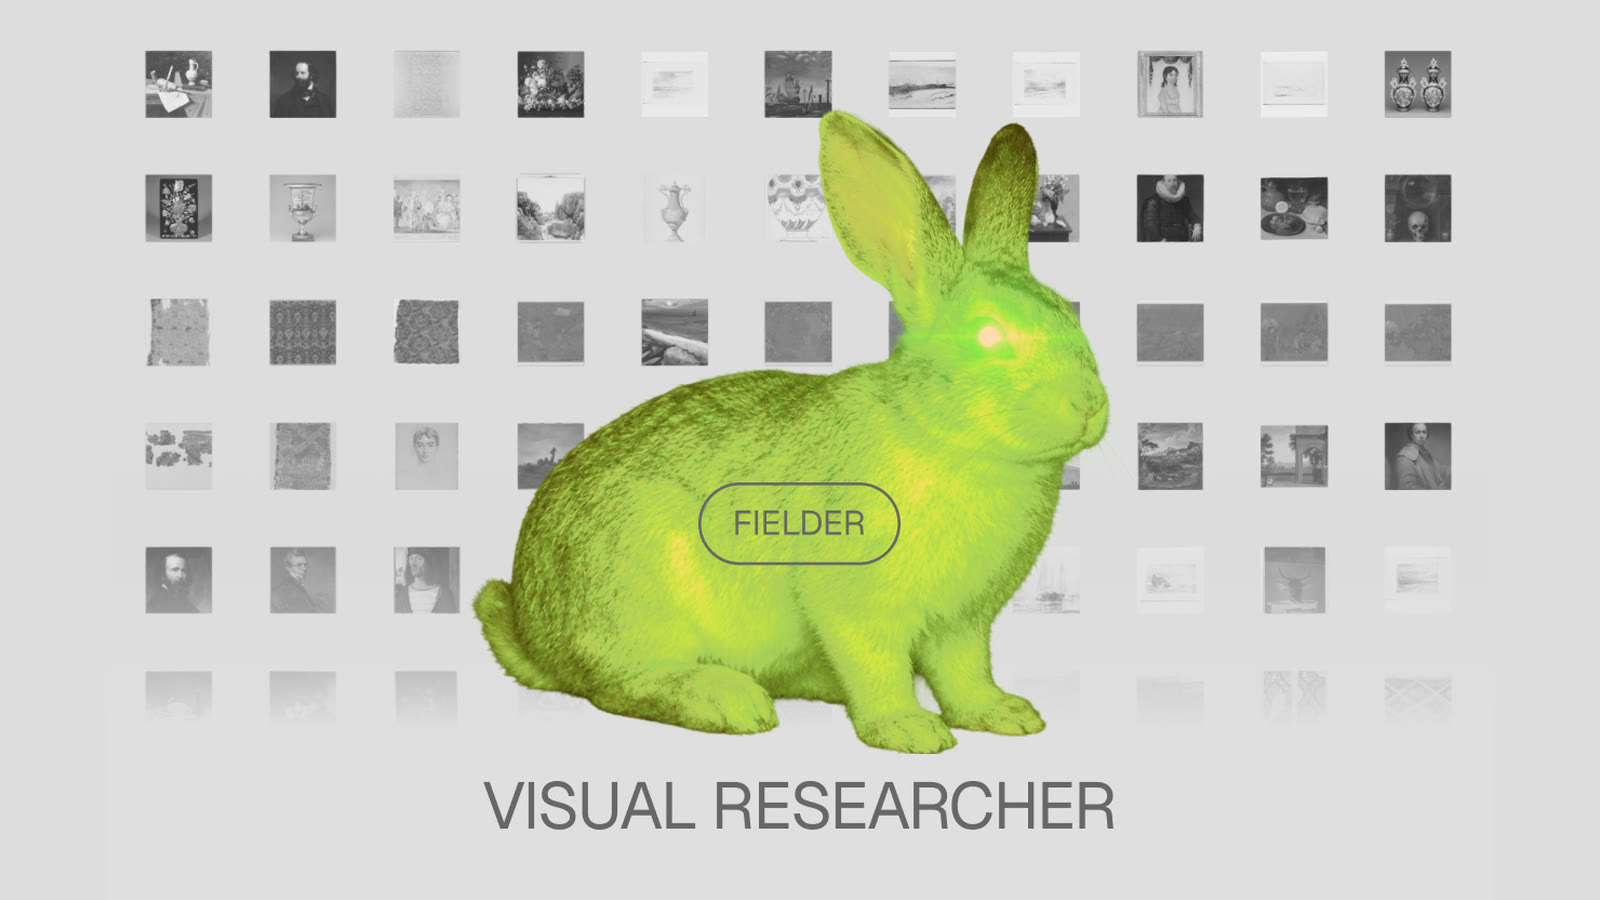
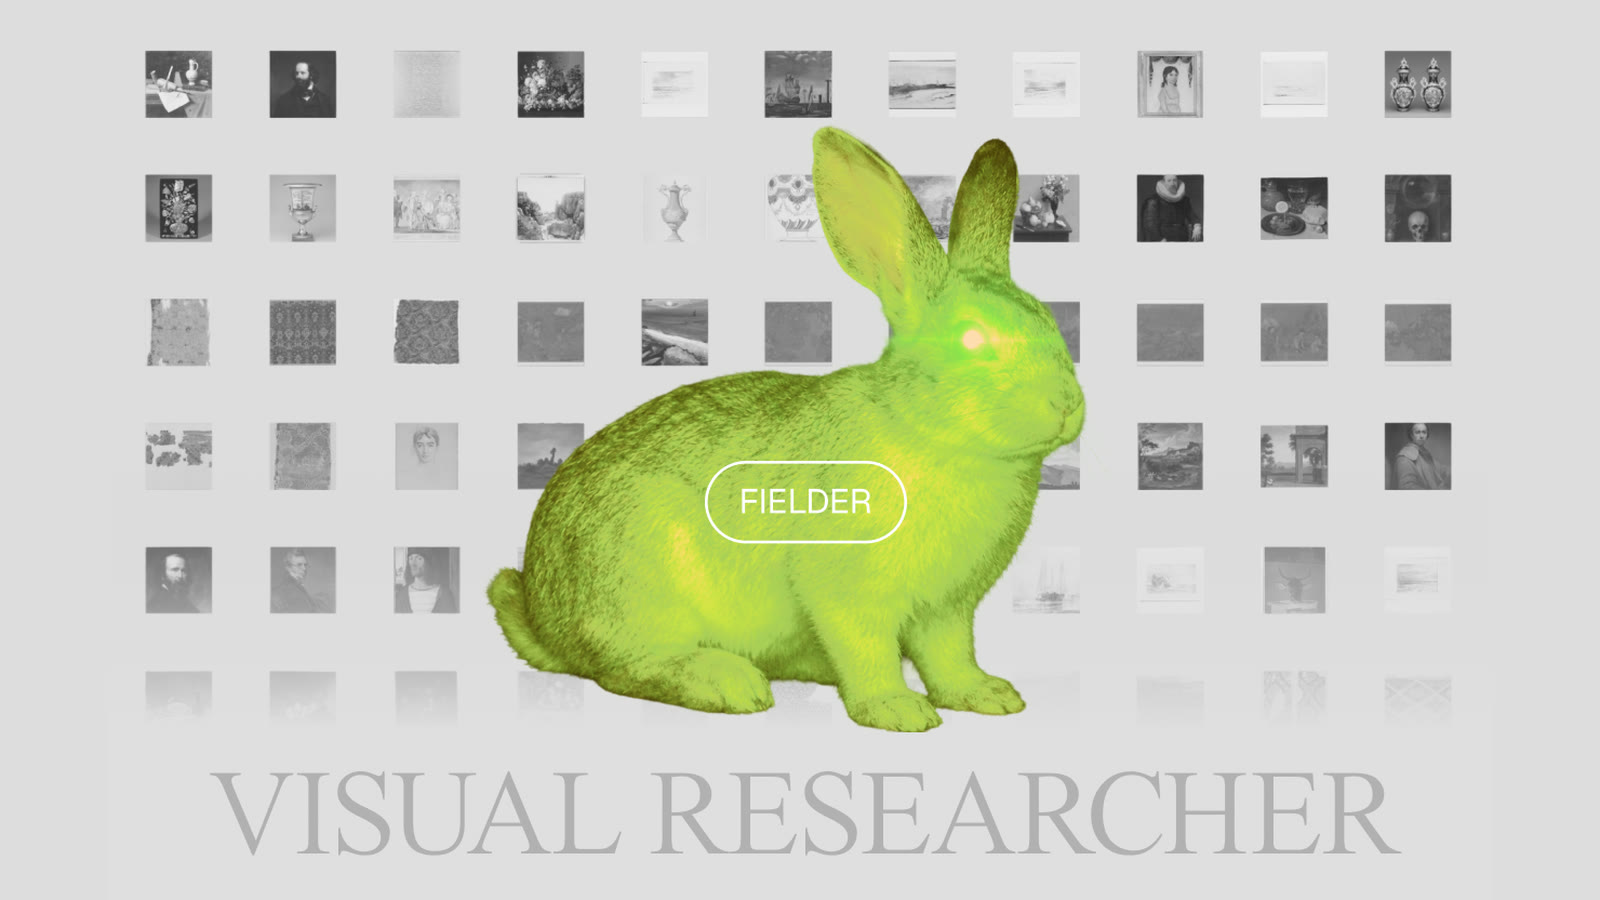
Fielder card: updated Visual Researcher still

Changed region(s): [[0.125, 0.1244, 0.875, 0.9644]]

diff --git a/index.html b/index.html
@@ -1031,7 +1031,7 @@ document.documentElement.className+=' js';
         <div class="cols"><div class="c0"><span class="nmw"><b>Vamos</b><span class="cl" aria-hidden="true" style="--m:url(/assets/logos/vamos.svg);--r:4.298"></span></span><span class="yr">2026</span></div><div class="c1"><span class="t">Collaborative Trip Planning on One Map</span><br><span class="m">Design Director</span></div></div>
       </a>
       <a class="proj" data-slug="fielder" data-cat="interface" href="https://fielder.pages.dev/">
-        <div class="media" aria-hidden="true" style="--poster:url(/stage/fielder/cover.jpg)"><video class="cover fill" src="/stage/fielder/cover.mp4" muted loop playsinline preload="none" poster="/stage/fielder/cover.jpg" aria-label="Fielder: a library of museum images rearranging from likeness into a color fan"></video><img class="sys rest" src="/stage/fielder/rest.jpg" alt="" loading="lazy"><span class="tag">Interface</span></div>
+        <div class="media" aria-hidden="true" style="--poster:url(/stage/fielder/cover.jpg)"><video class="cover fill" src="/stage/fielder/cover.mp4" muted loop playsinline preload="none" poster="/stage/fielder/cover.jpg" aria-label="Fielder: a library of museum images rearranging from likeness into a color fan"></video><img class="sys rest" src="/stage/fielder/rest.jpg?v=2" alt="" loading="lazy"><span class="tag">Interface</span></div>
         <div class="cols"><div class="c0"><span class="nmw glyph"><span class="cl" aria-hidden="true" style="--m:url(/assets/logos/fielder.svg);--r:1"></span><b>Fielder</b></span><span class="yr">2026</span></div><div class="c1"><span class="t">A Tool for Visual Research</span><br><span class="m">Designer + Developer</span></div></div>
       </a>
       </div>
